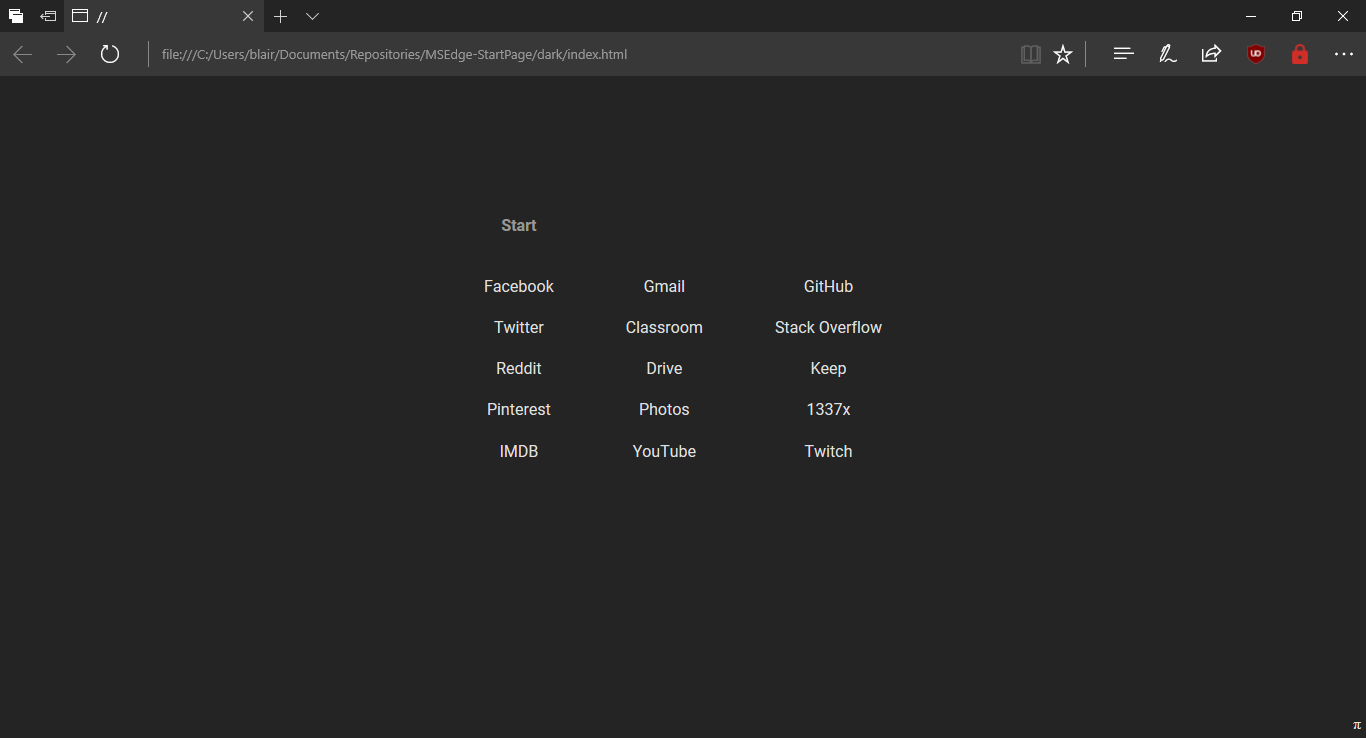
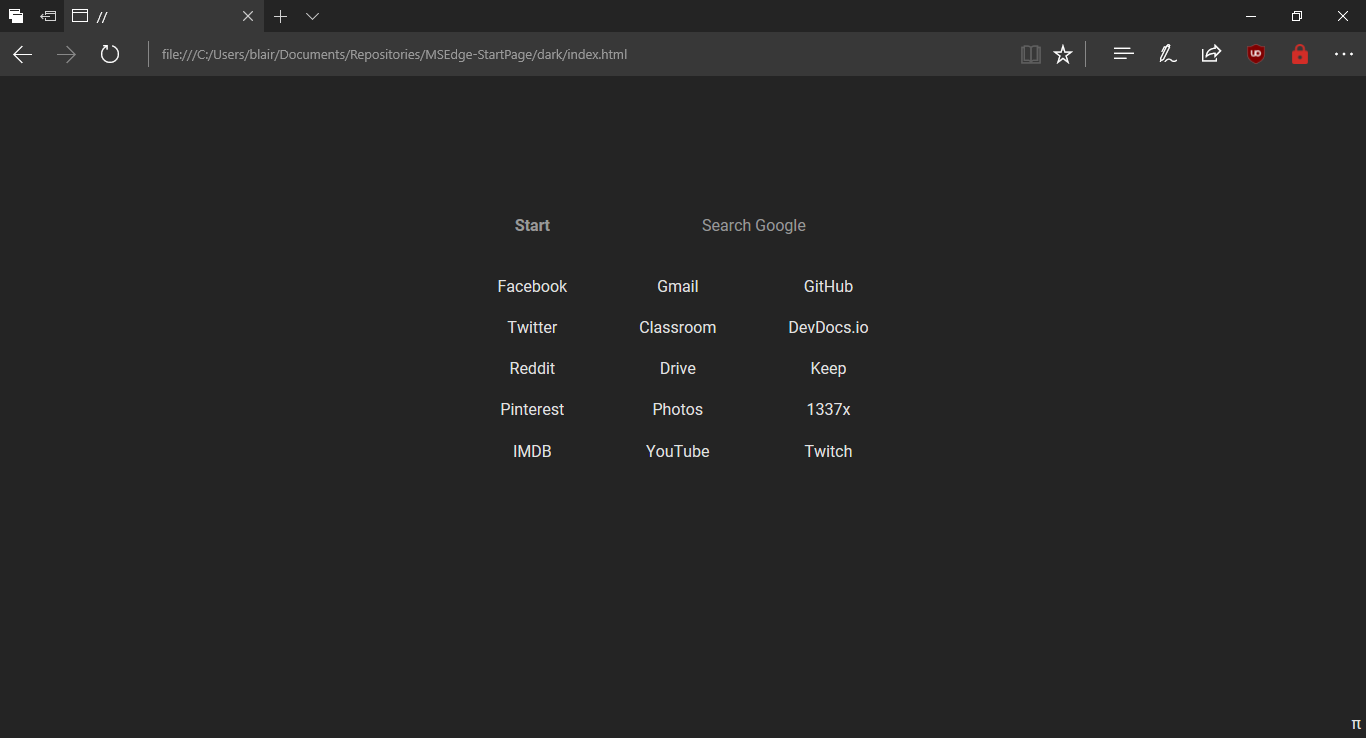
Added search bars to both pages
I'll update the image of the light one soon, I just want to fix the
coloring

diff --git a/dark/index.html b/dark/index.html
@@ -8,8 +8,16 @@
 		<table>
 			<tr>
 				<th>Start</th>
-				<th></th>
-				<th></th>
+				<td colspan="2" id="colspan">
+					<form method="get" action="https://www.google.com/search" target="_blank">
+						<div id="searchBar">
+							<input type="text" name="q" maxlength="255" value="Search Google" autofocus
+							onfocus="this.value=''";
+							onblur="this.value=this.defaultValue";
+							/>
+						</div>
+					</form>
+				</td>
 			</tr>
 			<tr>
 				<td><a href="https://facebook.com" target="_blank">Facebook</a></td>
@@ -19,7 +27,7 @@
 			<tr>
 				<td><a href="https://twitter.com/katalystdt" target="_blank">Twitter</a></td>
 				<td><a href="https://classroom.google.com" target="_blank">Classroom</a></td>
-				<td><a href="http://stackoverflow.com/" target="_blank">Stack Overflow</a></td>
+				<td><a href="http://devdocs.io" target="_blank">DevDocs.io</a></td>
 			</tr>
 			<tr>
 				<td><a href="https://reddit.com" target="_blank">Reddit</a></td>

diff --git a/light/index.html b/light/index.html
@@ -8,8 +8,16 @@
 		<table>
 			<tr>
 				<th>Start</th>
-				<th></th>
-				<th></th>
+				<td colspan="2" id="colspan">
+					<form method="get" action="https://www.google.com/search" target="_blank">
+						<div id="searchBar">
+							<input type="text" name="q" maxlength="255" value="Search Google" autofocus
+							onfocus="this.value=''";
+							onblur="this.value=this.defaultValue";
+							/>
+						</div>
+					</form>
+				</td>
 			</tr>
 			<tr>
 				<td><a href="https://facebook.com" target="_blank">Facebook</a></td>
@@ -44,6 +52,6 @@
 			</tr>
 			-->
 		</table>
-		<p><a href="https://katalysatorn.github.io" target="_blank>&pi;</a></p>
+		<p><a href="https://katalysatorn.github.io" target="_blank">&pi;</a></p>
 	</body>
 </html>

diff --git a/dark/css/style.css b/dark/css/style.css
@@ -1,6 +1,7 @@
 body
 {
 	background-color: #242424;
+	font-family: 'Roboto', sans-serif;
 }
 
 a
@@ -16,7 +17,6 @@ a:hover
 table
 {
 	color: #999999;
-	font-family: 'Roboto', sans-serif;
 	text-align: center;
 	margin: auto;
 	padding-top: 15vh;
@@ -37,4 +37,15 @@ p {
 	right: 0px;
 	padding: 5px;
 	margin: 0px;
+}
+
+input {
+	width: 100%;
+	height: 100%;
+	color: #999999;
+	background-color: #242424;
+	border: none;
+	font-size: 16px;
+	font-family: 'Roboto', sans-serif;
+	text-align: center;
 }

diff --git a/light/css/style.css b/light/css/style.css
@@ -38,3 +38,14 @@ p {
 	padding: 5px;
 	margin: 0px;
 }
+
+input {
+	width: 100%;
+	height: 100%;
+	color: #aaaaaa;
+	background-color: #cccccc;
+	border: none;
+	font-size: 16px;
+	font-family: 'Roboto', sans-serif;
+	text-align: center;
+}
